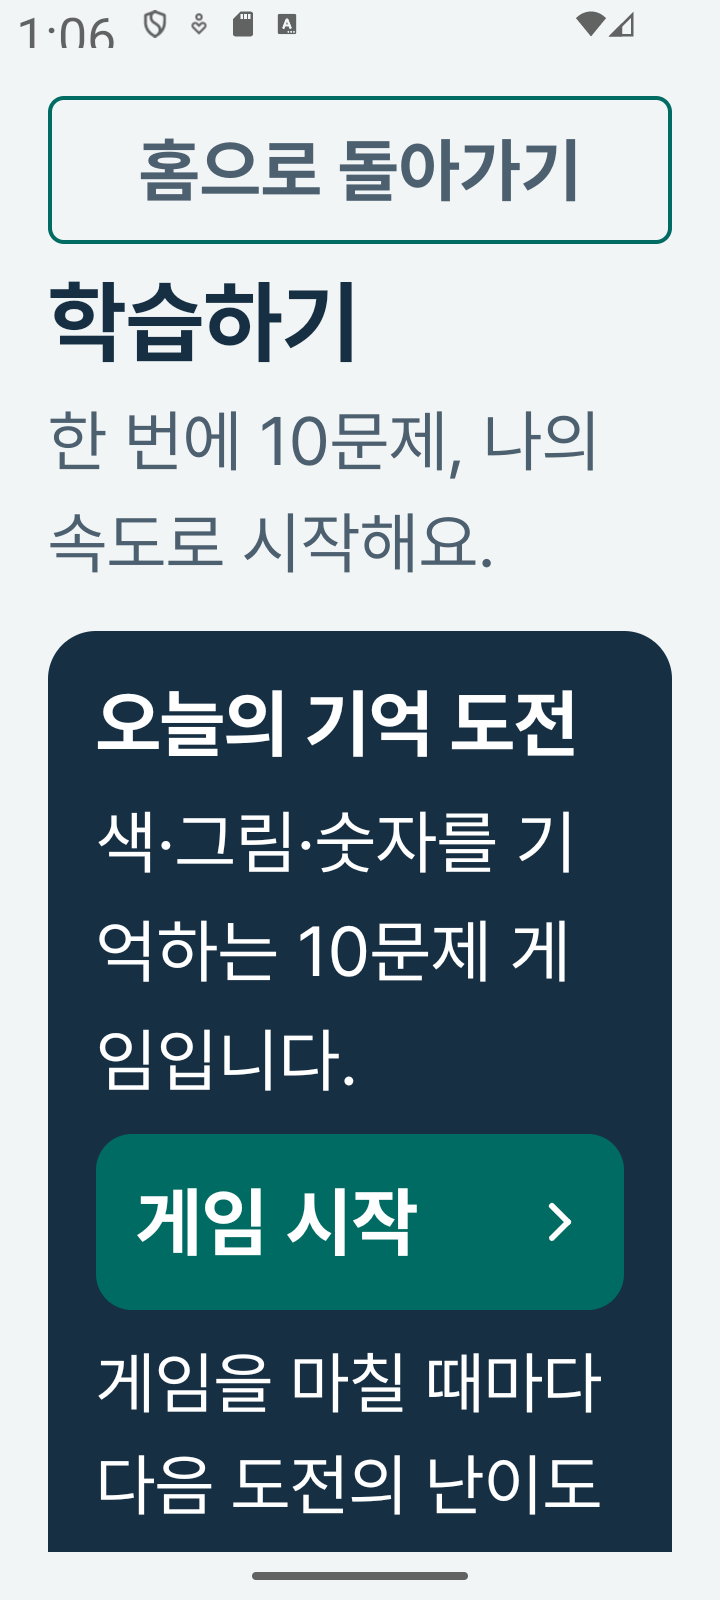
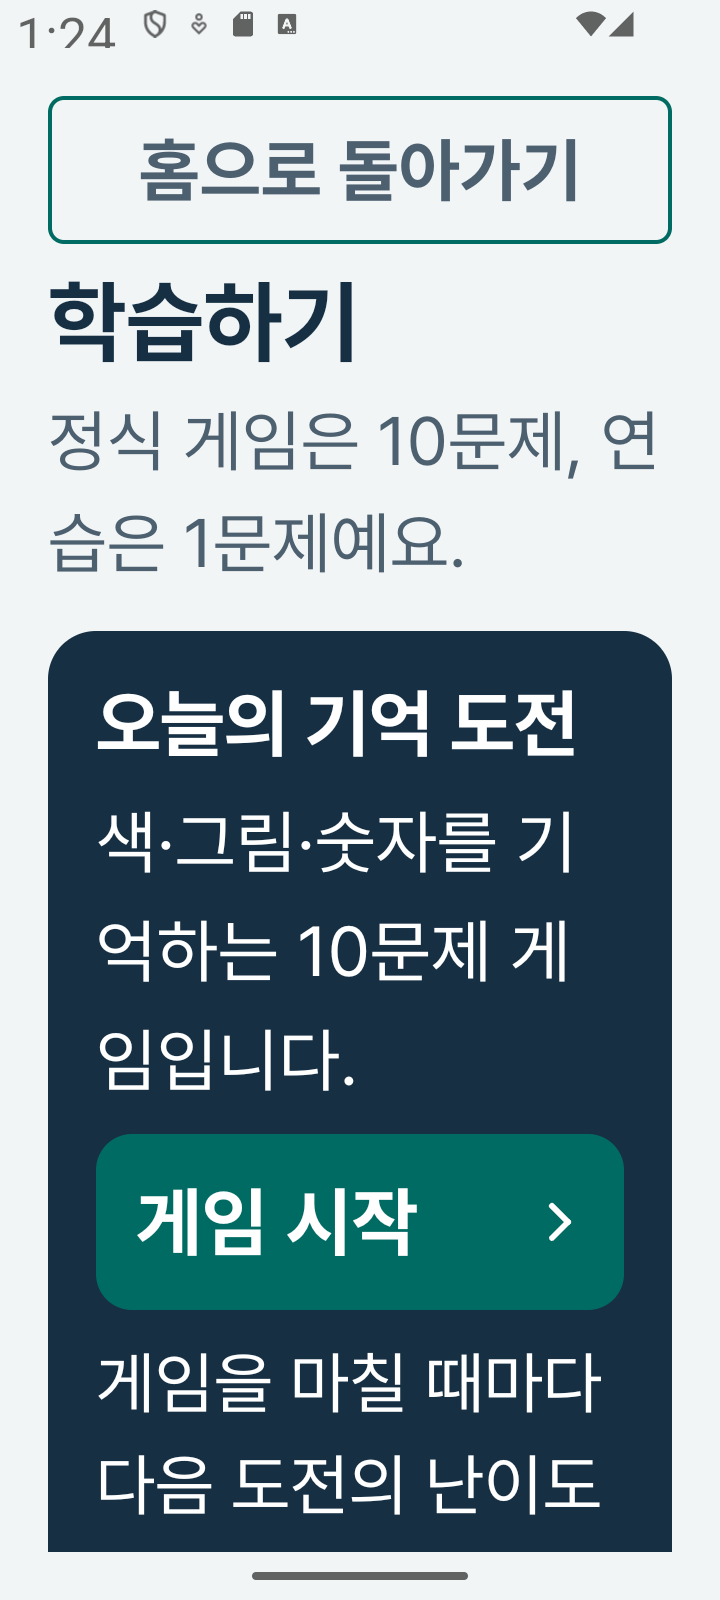
docs(practice): 1문제 연습 안내와 검증 결과 갱신

Changed region(s): [[0.0611, 0.25, 0.9167, 0.375], [0.0611, 0.0, 0.1528, 0.0312], [0.8556, 0.0, 0.8861, 0.0312]]

diff --git a/docs/TEST_REPORT.md b/docs/TEST_REPORT.md
@@ -432,3 +432,29 @@ UI 테스트는 API 37 에뮬레이터의 `com.example.memorysteps.difficultyval
 [학습 선택](screenshots/submission-learn-tablet.png) · [게임 설명](screenshots/submission-guide-tablet.png) · [유지한 게임 UI](screenshots/submission-game-tablet.png) · [글자 200% 홈](screenshots/submission-home-largefont.png) · [글자 200% 그래프](screenshots/submission-trend-largefont.png)
 
 화면의 학습 수치는 테스트용 합성 기록이며 개인 기록은 Git에 포함하지 않았습니다.
+
+## 2026-10-06 · 연습을 1문제 체험으로 변경
+
+색·그림·숫자 연습은 선택한 유형 1문제로 끝납니다. 진행 표시는 `1 / 1문제`이며 정답 또는 기회 소진 후 **연습 마치기**를 눌러 학습 선택으로 돌아갑니다. 연습의 다음 문항/전체 결과 화면은 거치지 않습니다. 정식 게임은 기존 10문제이며 저장·난이도 정책·마이그레이션은 변경하지 않았습니다.
+
+| 확인 항목 | 결과 |
+| --- | --- |
+| JVM 단위 테스트 | 총 72개 통과. 세 유형의 정답/기회 소진, 중복 진행 방지, 중단한 연습의 1문제 재개 추가 확인 |
+| 태블릿 2560×1600·320dpi·글자 100% | 메뉴 2 + 적응형 UI 2 + 대시보드 1 + 게임 흐름 7 = 12개 통과 |
+| 작은 화면 720×1600·320dpi·글자 200% | 메뉴 2 + 적응형 UI 2 + 대시보드 1 + 연습 흐름 2 = 7개 통과 |
+| 연습 완료와 기록 제외 | 세 유형 모두 1문제 뒤 학습 선택 복귀, 정답/기회 소진 결과 확인, 정식 문제·사이클 행 0개 유지 |
+| 진행 중인 정식 게임 보호 | 정식 첫 문제 완료 후 연습을 마쳐도 기록 수·활성 게임 ID·난이도 동일. 정식 게임 2/10에서 재개 |
+| 일반 디버그·서명 전 릴리스 빌드 | 통과. 설치용 디버그 패키지는 `com.example.memorysteps`, 최소 API 26 |
+| Lint | 오류 0, 기존 버전 알림 14개 |
+| 글꼴과 고지 | 두 APK 모두 원본 폰트 3개와 라이선스 바이트 일치 |
+
+계측은 별도 검증 앱 `com.example.memorysteps.difficultyvalidation`에서 실행했습니다. 테스트 기록은 개인 앱과 분리되며 DB·설치 APK를 Git에 포함하지 않습니다. 화면 크기·밀도·글자 배율은 2560×1600·320dpi·1.0으로 복원했습니다. 실물 태블릿 검증은 아직 하지 않았습니다.
+
+위 절의 재현 명령에서 동일 테스트 클래스를 실행하면 변경된 12개 UI 테스트를 검증할 수 있습니다. 작은 화면에서는 `TrainingFlowTest`의 `eachPracticeEndsAfterOneQuestionAndDoesNotCreateLearningRecords`, `oneQuestionPracticePreservesAnUnfinishedFormalGameAndItsDifficulty` 두 메서드와 나머지 세 클래스를 실행했습니다. 실행 로그는 `.artifacts/practice-one-build.log`, `practice-one-tablet-tests.log`, `practice-one-largefont-tests.log`, `practice-one-final-build.log`입니다.
+
+최신 설치 파일은 `.artifacts/MemorySteps-submission-2026-10-06-debug.apk`로 갱신했습니다. 위 메뉴 정리 시점의 APK를 대체합니다.
+
[2 lines of base64/hex data omitted]
+
+[1문제 체험 안내](screenshots/submission-learn-tablet.png) · [게임 설명](screenshots/submission-guide-tablet.png) · [글자 200% 학습 선택](screenshots/submission-learn-largefont.png)

diff --git a/docs/GAME_ENGINE.md b/docs/GAME_ENGINE.md
@@ -1,6 +1,6 @@
 # 게임 엔진
 
-`game/`는 Android UI·저장소에 의존하지 않는 Kotlin/JVM 코드입니다. 문제의 생성·진행·판정과 10문제 사이클을 담당합니다. 학습하기 화면의 정식 게임과 세 유형 연습에 연결되어 있습니다. 정식 게임의 영구 저장·복구와 AI 결정 연결은 `data/`의 Room Repository가 담당하며 `difficulty/`와 `ai/`가 다음 난이도를 계산합니다.
+`game/`는 Android UI·저장소에 의존하지 않는 Kotlin/JVM 코드입니다. 문제의 생성·진행·판정, 정식 10문제 사이클과 연습 1문제를 담당합니다. 학습하기 화면의 정식 게임과 세 유형 연습에 연결되어 있습니다. 정식 게임의 영구 저장·복구와 AI 결정 연결은 `data/`의 Room Repository가 담당하며 `difficulty/`와 `ai/`가 다음 난이도를 계산합니다.
 
 ## 문제 생성
 
@@ -51,7 +51,7 @@
 
 ### 현재 화면 연결
 
-- 학습하기의 게임 시작은 종합 4/3/3 배정을 섞고, 세 연습 버튼은 같은 유형 10문제를 구성합니다. 정식 완료 종합 사이클의 DB 집계를 기준으로 네 문제 유형을 순환합니다. 연습은 이 집계와 저장에서 제외합니다.
+- 학습하기의 게임 시작은 종합 4/3/3 배정을 섞고, 세 연습 버튼은 선택한 유형 1문제만 구성합니다. 연습은 정답 또는 기회 소진 시 완료하며 ‘연습 마치기’에서 학습 선택으로 돌아갑니다. 중단한 연습은 같은 유형의 새 대상 1문제로 재개합니다. 정식 완료 종합 사이클의 DB 집계를 기준으로 네 문제가 배정되는 유형을 순환하며 연습은 이 집계와 저장에서 제외합니다. 과거 정식 단일 유형 10문제 체크포인트의 복구 동작은 유지합니다.
 - `TrainingViewModel`이 상태를 StateFlow로 제공하고, `TrainingScreen`이 생명주기가 RESUMED이고 일시정지 메뉴가 닫혀 있을 때만 tick을 실행합니다. 표시 단계 진입 후 프레임을 거친 콜백으로 시계를 시작합니다. 일시정지 메뉴는 대상을 즉시 숨기고 미완료 문항을 중단하며, 시스템 뒤로가기도 이 메뉴를 엽니다.
 - 홈 이동·백그라운드·Activity 재생성은 미완료 문제를 중단합니다. 이어하기에서 같은 유형·조건의 새 대상으로 대체하며 완료 문제 수를 유지합니다. 이전 내비게이션 화면의 늦은 이벤트는 새 사이클을 중단하지 않도록 세션 ID를 확인합니다.
 - 10번째 문제 뒤 실제 선택 결과로 전체·유형별 첫 선택 정답과 최종 정답을 표시합니다. 정식 기록은 학습 현황에도 반영됩니다. 진행 종료는 사이클을 STOPPED로 남기며 완료 기록을 삭제하지 않습니다.

diff --git a/README.md b/README.md
@@ -10,7 +10,7 @@ Android 태블릿에서 인터넷 없이 사용하는 시니어 기억력 게임
 
 현재 앱에서는 **학습하기 → 게임 시작 → 기억 → 대기 → 보기 선택 → 10문제 결과**까지 플레이하고 기록을 기기에 저장합니다. 메인은 큰 ‘기억 산책’ 제목과 **학습하기·학습 현황·게임 설명** 세 버튼으로 구성합니다.
 
-학습하기의 **게임 시작**은 색·그림·숫자를 섞은 정식 10문제입니다. 아래 **연습하기 → 색·그림·숫자**는 각 유형 10문제이며 정식 성적과 AI 학습 기록에서 제외합니다. 대상을 기억한 뒤 **다음**을 누르면 3초 대기 후 보기가 나타납니다. 메뉴는 옅은 회색 바탕·짙은 남색·청록색 포인트를 사용하며 게임 화면의 기존 크림색 배경과 큰 글자·버튼은 유지합니다.
+학습하기의 **게임 시작**은 색·그림·숫자를 섞은 정식 10문제입니다. 아래 **연습하기 → 색·그림·숫자**는 선택한 유형을 **1문제만 체험**하며 정식 성적과 AI 학습 기록에서 제외합니다. 정답 또는 기회 소진 뒤 **연습 마치기**를 누르면 학습 선택으로 돌아갑니다. 대상을 기억한 뒤 **다음**을 누르면 3초 대기 후 보기가 나타납니다. 메뉴는 옅은 회색 바탕·짙은 남색·청록색 포인트를 사용하며 게임 화면의 기존 크림색 배경과 큰 글자·버튼은 유지합니다.
 
 게임 안내·기억 대상·카운트다운은 중앙에 크게 표시하고 **다음 버튼은 하단에 고정**합니다. 정답은 중앙 문구, 오답은 남은 기회로 안내합니다. 문제 번호 옆 **일시정지**에서 계속하기·뒤로가기·홈 이동을 선택하며 시스템 뒤로가기도 이 메뉴를 엽니다.
 

diff --git a/docs/UI_DIRECTION.md b/docs/UI_DIRECTION.md
@@ -49,11 +49,13 @@
 | 시작 경로 | 한 사이클 | 화면의 설명 |
 | --- | --- | --- |
 | 게임 시작 | 색·그림·숫자 혼합 10문제 | 정식 기록 자동 저장 |
-| 연습하기 → 색 | 색 10문제 | 성적·AI 학습 제외 |
-| 연습하기 → 그림 | 그림 10문제 | 성적·AI 학습 제외 |
-| 연습하기 → 숫자 | 숫자 10문제 | 성적·AI 학습 제외 |
+| 연습하기 → 색 | 색 1문제 체험 | 성적·AI 학습 제외 |
+| 연습하기 → 그림 | 그림 1문제 체험 | 성적·AI 학습 제외 |
+| 연습하기 → 숫자 | 숫자 1문제 체험 | 성적·AI 학습 제외 |
 
 종합에서 4개가 배정되는 유형은 완료 사이클마다 색→그림→숫자로 순환하며 앱 종료 후에도 유지합니다. 연습은 정식 사이클·성적·AI 원본 기록에 영향을 주지 않습니다.
+
+연습 상단 진행은 **1 / 1문제**입니다. 정답 또는 기회 소진 결과를 확인한 뒤 하단의 **연습 마치기**로 학습 선택에 돌아갑니다. 다음 문항이나 10문제 결과 화면을 요구하지 않습니다. 정식 게임의 10문제 결과 화면은 그대로 유지합니다.
 
 ## 학습 현황
 
